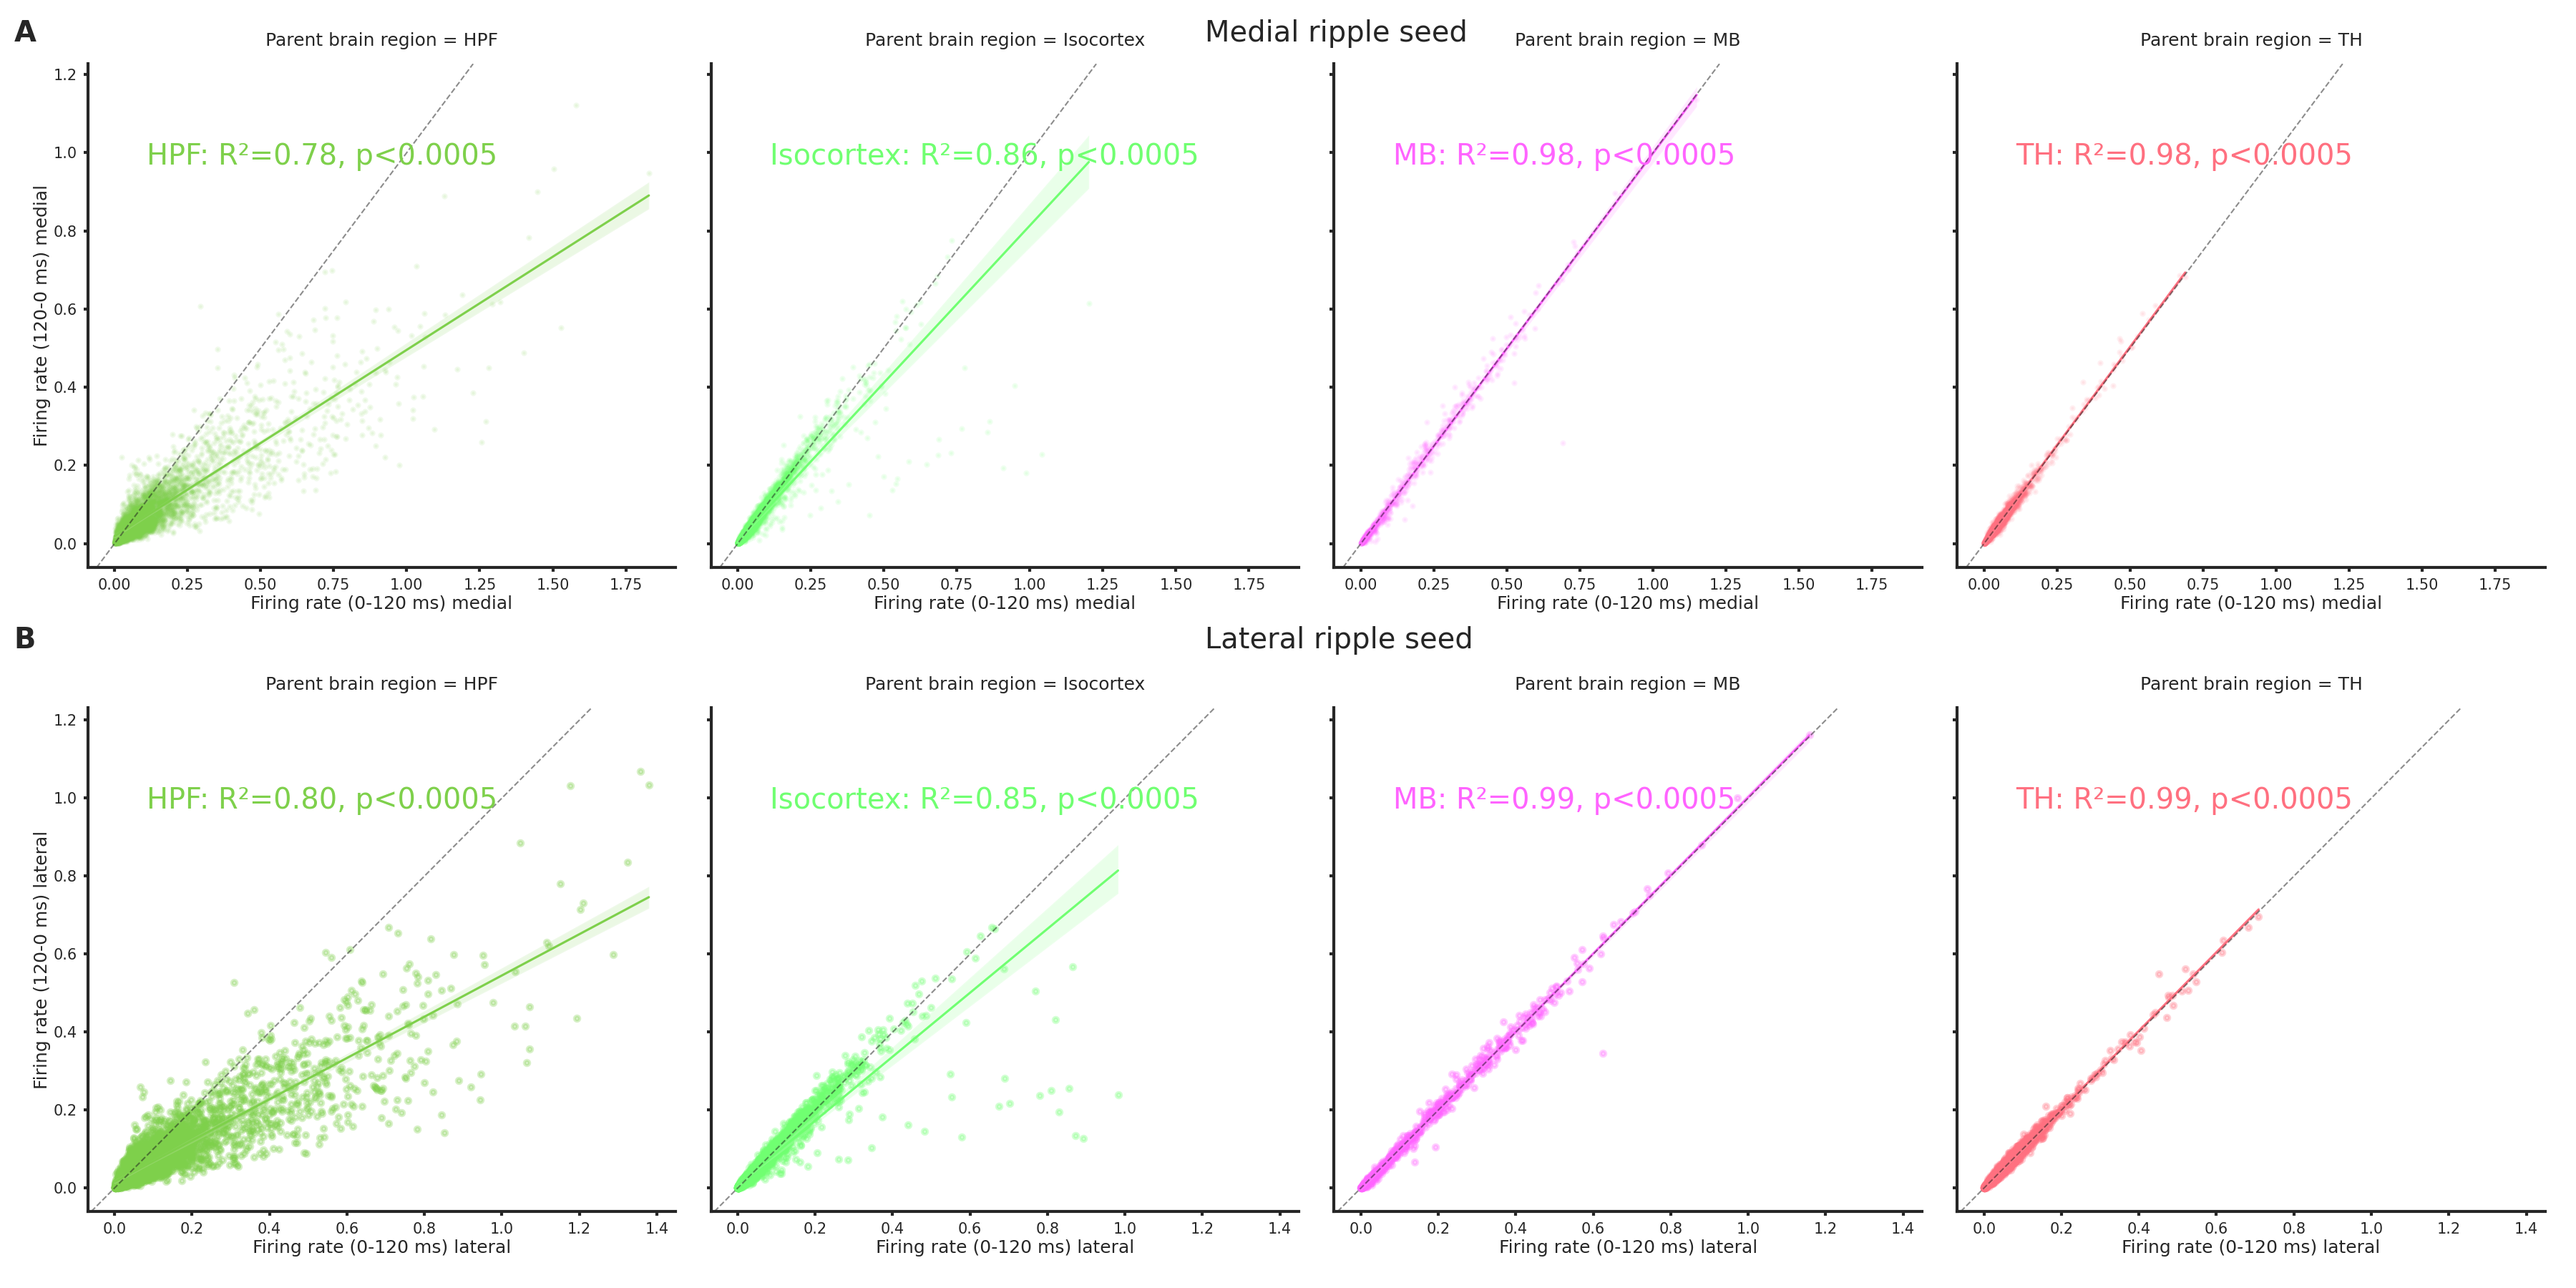
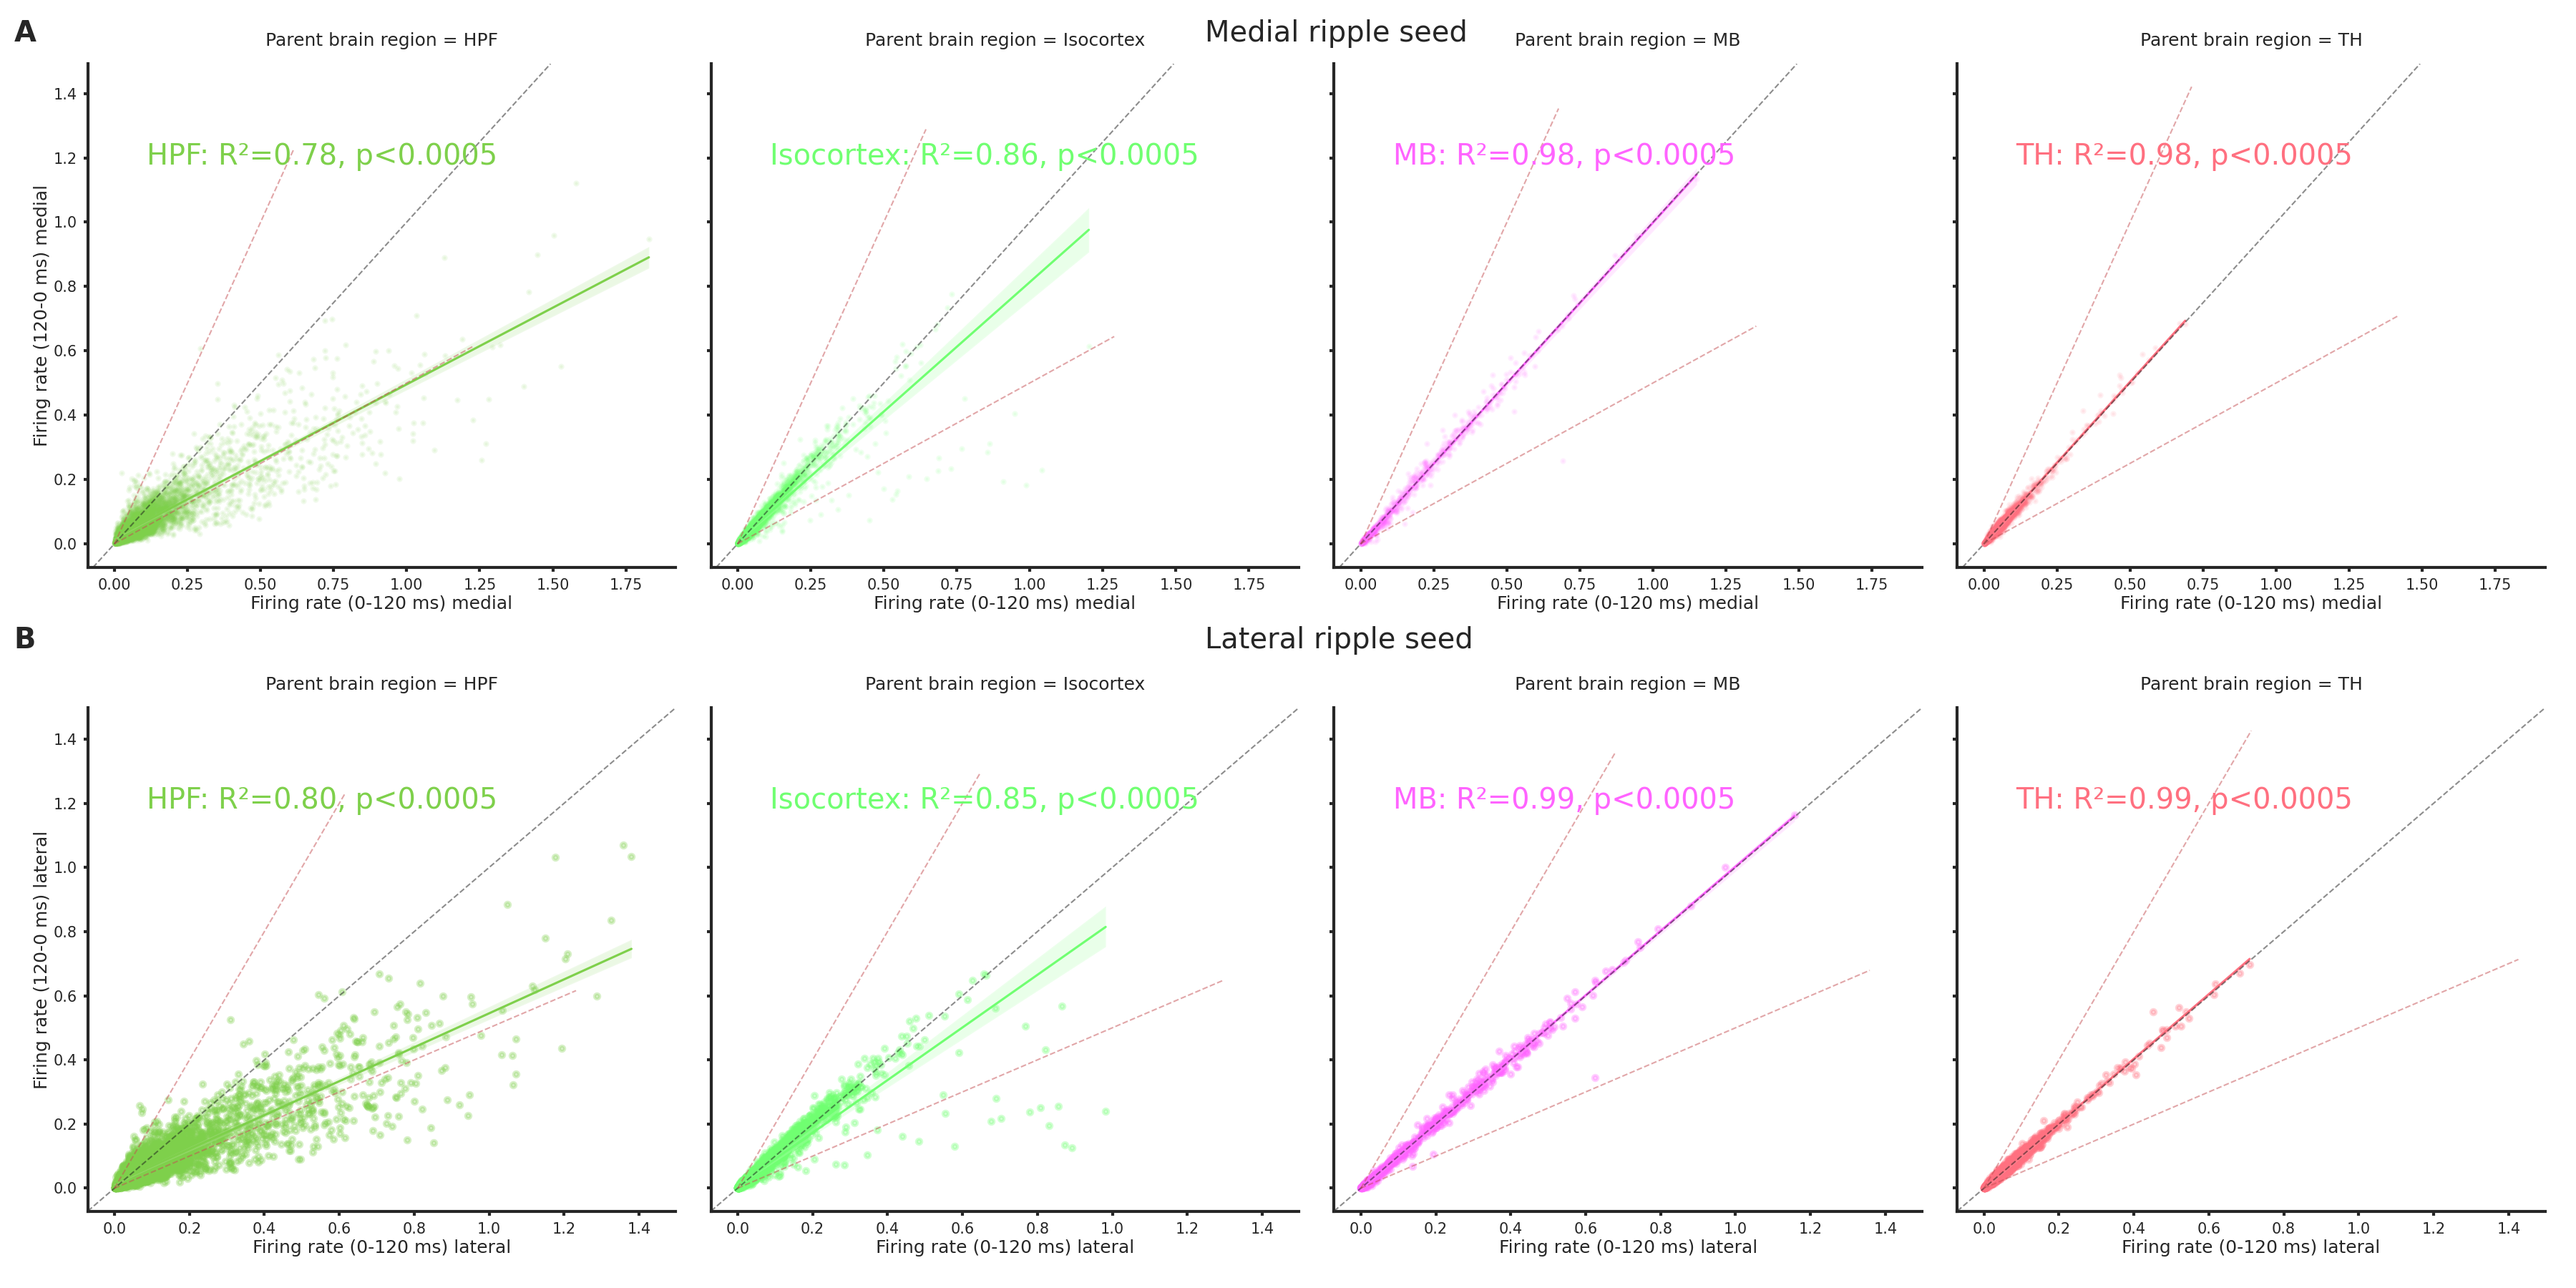
update

diff --git a/Figures/Supplementary/Supplementary_Figure_brainrender_cells_isocortex_mod_by_ripples.py b/Figures/Supplementary/Supplementary_Figure_brainrender_cells_isocortex_mod_by_ripples.py
@@ -3,9 +3,21 @@ from PIL import Image
 from brainrender import Scene, settings
 from brainrender.actors import Points
 import dill
-from Utils.Settings import output_folder_figures_calculations
+from Utils.Settings import output_folder_supplementary, output_folder_figures_calculations
+from Utils.Style import palette_ML
+from rich import print
+from Utils.Utils import rgb2hex
+from brainrender import Scene
+from brainrender.video import VideoMaker
+
 
 from rich import print
+
+
+
+# Create an instance of video maker
+
+
 
 
 settings.SHOW_AXES = False
@@ -15,29 +27,52 @@ with open(f"{output_folder_figures_calculations}/temp_data_figure_5.pkl", 'rb') 
 scene = Scene()
 
 data = summary_units_df_sub[(summary_units_df_sub["Parent brain region"]=="Isocortex") &
-                    (summary_units_df_sub['Ripple modulation (0-50 ms) lateral']>2)]
+                    (summary_units_df_sub['Ripple modulation (0-50 ms) lateral'] > .5) &
+                            (summary_units_df_sub['Ripple modulation (0-50 ms) medial'] < .5) ]
 
 ca1 = scene.add_brain_region("CA1", alpha=0.15, color="#754668")
 
 # Add to scene
-scene.add(Points(data[[ "A-P", "D-V", "L-R"]].values, name="CELLS", colors="r"))
+scene.add(Points(data[["A-P", "D-V", "L-R"]].values, name="CELLS", radius=50, alpha=.5, colors=rgb2hex(palette_ML["Lateral"])))
+
+data = summary_units_df_sub[(summary_units_df_sub["Parent brain region"]=="Isocortex") &
+                    (summary_units_df_sub['Ripple modulation (0-50 ms) medial']>.5) &
+                            (summary_units_df_sub['Ripple modulation (0-50 ms) lateral'] < .5)
+                            ]
 
 
+scene.add(Points(data[["A-P", "D-V", "L-R"]].values, name="CELLS", radius=50,  alpha=.5, colors=rgb2hex(palette_ML["Medial"])))
 
+data = summary_units_df_sub[(summary_units_df_sub["Parent brain region"]=="Isocortex") &
+                    (summary_units_df_sub['Ripple modulation (0-50 ms) medial']>.5) &
+                            (summary_units_df_sub['Ripple modulation (0-50 ms) lateral'] > .5)
+                            ]
+
+
+scene.add(Points(data[["A-P", "D-V", "L-R"]].values, name="CELLS", radius=50,  alpha=.5, colors="r"))
 #ca3 = scene.add_brain_region("CA3", alpha=0.15, color="#FF4365")
 
 
 # render
-cam0 = {
-     'pos': (-18912, -4980, -28900),
+cam0:{
+     'pos': (-7265, -940, -18793),
      'viewup': (0, -1, 0),
-     'clippingRange': (17189, 58828),
+     'clippingRange': (1407, 42647),
+     'focalPoint': (7830, 4296, -5694),
+     'distance': 20661,
    }
 
+vm = VideoMaker(scene, output_folder_supplementary, "Supplementary_Figure_brainrender_cells")
+
+# make a video with the custom make frame function
+# this just rotates the scene
+vm.make_video(azimuth=2, duration=10, fps=15)
+
+"""
 scene.render(zoom=1.0, camera=cam0)
-#scene.screenshot(name=f"{output_folder_figures_calculations}/Figure_5_brainrender_cells.png", scale=4)
-#im = Image.open(f'{output_folder_figures_calculations}/Figure_5_brainrender_cells.png')
-#width, height = im.size
-#im = im.crop((2000, 1200, width - 2400, height - 1200))
-#im.save(f'{output_folder_figures_calculations}/Figure_5_brainrender_cells.png')
-print("Brainrender saved")
+scene.screenshot(name=f"{output_folder_supplementary}/Supplementary_Figure_brainrender_cells.png", scale=4)
+im = Image.open(f'{output_folder_supplementary}/Supplementary_Figure_brainrender_cells.png')
+width, height = im.size
+im = im.crop((2000, 1200, width - 2400, height - 1200))
+im.save(f'{output_folder_supplementary}/Supplementary_Figure_brainrender_cells.png')
+print("Brainrender saved")"""

diff --git a/Figures/Figure_5/Figure_5_scatter_ripple_modulated.py b/Figures/Figure_5/Figure_5_scatter_ripple_modulated.py
@@ -9,18 +9,18 @@ import scipy as sp
 with open(f"{output_folder_figures_calculations}/temp_data_figure_5.pkl", 'rb') as f:
     summary_units_df_sub = dill.load(f)
 
-summary_units_df_sub["Firing rate (0-50 ms)"] = (summary_units_df_sub["Firing rate (0-50 ms) medial"]+summary_units_df_sub["Firing rate (0-50 ms) lateral"])/2
-summary_units_df_sub["Firing rate (120-0 ms)"] = (summary_units_df_sub["Firing rate (120-0 ms) medial"]+summary_units_df_sub["Firing rate (120-0 ms) lateral"])/2
+summary_units_df_sub['Firing rate (0-120 ms)'] = (summary_units_df_sub['Firing rate (0-120 ms) medial']+summary_units_df_sub['Firing rate (0-120 ms) lateral'])/2
+summary_units_df_sub['Firing rate (120-0 ms)'] = (summary_units_df_sub['Firing rate (120-0 ms) medial']+summary_units_df_sub['Firing rate (120-0 ms) lateral'])/2
+#summary_units_df_sub['Firing rate (0-50 ms)'] = (summary_units_df_sub['Firing rate (0-50 ms) medial']+summary_units_df_sub['Firing rate (0-120 ms) lateral'])/2
 
 palette_parent_areas = dict()
 for area in summary_units_df_sub["Parent brain region"].unique():
     palette_parent_areas[area] = '#' + ''.join(f'{i:02X}' for i in acronym_color_map[area]);
 
-
-g = sns.lmplot(data=summary_units_df_sub, x='Firing rate (0-50 ms)', y='Firing rate (120-0 ms)',
+g = sns.lmplot(data=summary_units_df_sub, x='Firing rate (0-120 ms)', y='Firing rate (120-0 ms)',
                hue='Parent brain region',
-               palette=palette_parent_areas, scatter_kws=dict(alpha=.3, s=.5),
-               hue_order=['HPF', 'Isocortex', 'MB', 'TH'], height=5, aspect=1, legend=False)
+               palette=palette_parent_areas, scatter_kws=dict(alpha=.2, s=.5),
+               hue_order=['HPF', 'Isocortex', 'MB', 'TH'], height=5, aspect=1)
 
 yg = {'HPF': .8, 'Isocortex': .85, 'MB': .9, 'TH': .95}
 
@@ -31,14 +31,24 @@ def annotate(data, **kws):
     # get the y-position from the dict
     y = yg[g]
 
-    r, p = sp.stats.pearsonr(data['Firing rate (0-50 ms)'], data['Firing rate (120-0 ms)'])
+    r, p = sp.stats.pearsonr(data['Firing rate (0-120 ms)'], data['Firing rate (120-0 ms)'])
     ax = plt.gca()
     if p == 0:
-        ax.text(.03, y, f'{g}: R²={r ** 2:.2f}, p<0.0005', fontsize=5,  transform=ax.transAxes, color=palette_parent_areas[g])
+        ax.text(.1, y, f"{g}: R²={r ** 2:.2f}, p<0.0005", fontsize=5, transform=ax.transAxes, color=palette_parent_areas[g])
     else:
-        ax.text(.03, y, f'{g}: R²={r ** 2:.2f}, p={2:.2e}', fontsize=5, transform=ax.transAxes, color=palette_parent_areas[g])
+        ax.text(.1, y, f"{g}: R²={r ** 2:.2f}, p={2:.2e}", fontsize=5, transform=ax.transAxes, color=palette_parent_areas[g])
 
 
 g.map_dataframe(annotate)
-g.map_dataframe(lambda data, **kws: plt.axline((0, 0), slope=1,  alpha=.5, linestyle='--', color='k'))
+g.map_dataframe(lambda data, **kws: plt.axline((0, 0), slope=1, alpha=.2, linestyle='--', color='k'))
+
+
+def plot_diag(data, **kws):
+    ax = plt.gca()
+    ax.plot([0, ax.get_ylim()[1]], [0, ax.get_ylim()[1] / 2], alpha=.5, linestyle='--', color='r')
+    ax.plot([0, ax.get_ylim()[1] / 2], [0, ax.get_ylim()[1]], alpha=.5, linestyle='--', color='r')
+
+
+g.map_dataframe(plot_diag)
+
 plt.show()

diff --git a/Calculations/Calculations_Figure_5.py b/Calculations/Calculations_Figure_5.py
@@ -62,7 +62,6 @@ summary_units_df_sub = summary_units_df_sub.rename(columns={"Ecephys structure a
 
 summary_units_df_sub["M-L"] = summary_units_df_sub["L-R"] - 5691.510009765625
 
-
 def conditions_type_engagement(s):
     if (s['Ripple modulation (0-50 ms) medial'] > .5) | (s['Ripple modulation (0-50 ms) lateral'] > .5):
         if ((s['Ripple modulation (0-50 ms) medial']) / (s['Ripple modulation (0-50 ms) lateral'] + 1e-9)) > 2:
@@ -81,9 +80,9 @@ def conditions_ripple_engagement(s):
     else:
         return 'No engagement'
 
-summary_units_df_sub['Ripple type engagement'] = summary_units_df_sub[(summary_units_df_sub['Firing rate (0-120 ms) medial']>0.025)\
+summary_units_df_sub['Ripple type engagement'] = summary_units_df_sub[(summary_units_df_sub['Firing rate (0-50 ms) medial']>0.025)\
                                                                      ].apply(conditions_type_engagement, axis=1)
-summary_units_df_sub['Ripple engagement'] = summary_units_df_sub[(summary_units_df_sub['Firing rate (0-120 ms) medial']>0.025)\
+summary_units_df_sub['Ripple engagement'] = summary_units_df_sub[(summary_units_df_sub['Firing rate (0-50 ms) medial']>0.025)\
                                                                  ].apply(conditions_ripple_engagement, axis=1)
 
 with open(f"{ output_folder_figures_calculations}/temp_data_figure_5.pkl", "wb") as fp:

diff --git a/Manuscript/results.py b/Manuscript/results.py
@@ -157,7 +157,12 @@ results = {"Distance explains most of the ripple strength correlation variabilit
             f"we did, however, found differences in firing rate, waveform duration, and waveform shape (recovery slope and peak-through ratio, Supplementary Figure 13)."
             f" Firing rate and waveform duration in putative excitatory neurons exhibited respectively "
             f"a left- and right-shifted distribution in the lateral section, reflecting lower firing rate and slower action potentials. "
-            f"Putative inhibitory interneurons in the lateral section showed both a slower action potential and a higher firing rate"}
+            f"Putative inhibitory interneurons in the lateral section showed both a slower action potential and a higher firing rate.",
+
+           "Ripple seed location is associated with different pattern of modulation across brain regions":
+           "To understand the effect of medial and lateral ripples on individual neurons in different brain regions we calculated a modulation index"
+           "subtracting the baseline spiking rate from the spiking rate during the ripple and dividing by the baseline"
+           }
 
 if Adapt_for_Nature_style is True:
     results = Naturize_text(results)

diff --git a/Figures/Figure_5/Figure_5_ripple_specific_modulation_scatterplot.py b/Figures/Figure_5/Figure_5_ripple_specific_modulation_scatterplot.py
@@ -16,7 +16,7 @@ palette_ML['No preference'] = (0.8,.8,.8)
 
 
 fig, axs = plt.subplots(1,  figsize=(5,5))
-sns.scatterplot(data=summary_units_df_sub[(summary_units_df_sub['Firing rate (0-120 ms) medial']>0.025)&
+sns.scatterplot(data=summary_units_df_sub[(summary_units_df_sub['Firing rate (0-50 ms) medial']>0.025)&
                                           (summary_units_df_sub['Parent brain region']=='HPF' )],
                x='Ripple modulation (0-50 ms) medial', y= 'Ripple modulation (0-50 ms) lateral', alpha=.5, ax=axs, s=5, hue='Ripple type engagement', palette=palette_ML)
 axs.plot([0, axs.get_ylim()[1]], [0, axs.get_ylim()[1]],  alpha=.5, linestyle='--', color='k')

diff --git a/Figures/Figure_5/Figure_5_ripple_specific_modulation_pie.py b/Figures/Figure_5/Figure_5_ripple_specific_modulation_pie.py
@@ -14,7 +14,7 @@ palette_ML['Lateral ripple engagement'] = (0.29408557, 0.13721193, 0.38442775)
 palette_ML['Medial ripple engagement'] = (0.92891402, 0.68494686, 0.50173994)
 palette_ML['No preference'] = (0.8,.8,.8)
 
-_ = pd.DataFrame(summary_units_df_sub[(summary_units_df_sub['Firing rate (0-120 ms) medial']>0.025)&
+_ = pd.DataFrame(summary_units_df_sub[(summary_units_df_sub['Firing rate (0-50 ms) medial']>0.025)&
                      (summary_units_df_sub['Parent brain region']=='HPF' )]['Ripple type engagement'].value_counts())
 
 

diff --git a/Figures/Figure_5/Figure_5_ripple modulation_per_HPF_area.py b/Figures/Figure_5/Figure_5_ripple modulation_per_HPF_area.py
@@ -18,7 +18,7 @@ order= ['CA1',  'CA3', 'DG', 'ProS', 'SUB']
 
 dv = 'Ripple modulation (0-50 ms)'
 ylabel = 'Early ripple modulation (0-50 ms)'
-filter_spiking = summary_units_df_sub['Firing rate (0-120 ms) medial']>0.025
+filter_spiking = summary_units_df_sub['Firing rate (0-50 ms) medial']>0.025
 point_plot_modulation_ripples(summary_units_df_sub, dv, parent_area, order,filter_spiking,axs[0], ylabel)
 axs[0].get_legend().remove()
 dv = 'Ripple modulation (50-120 ms)'

diff --git a/Figures/Supplementary/ex.py b/Figures/Supplementary/ex.py
@@ -1,0 +1,19 @@
+from brainrender import Scene
+from brainrender.video import VideoMaker
+
+
+from rich import print
+from myterial import orange
+from pathlib import Path
+
+# Create a scene
+scene = Scene("my video")
+scene.add_brain_region("TH")
+
+# Create an instance of video maker
+vm = VideoMaker(scene, "./examples", "vid1")
+
+# make a video with the custom make frame function
+# this just rotates the scene
+vm.make_video(azimuth=2, duration=5, fps=15)
+

diff --git a/Figures/Supplementary/Supplementary_Figure_units_per_hippocampal_section.py b/Figures/Supplementary/Supplementary_Figure_units_per_hippocampal_section.py
@@ -76,7 +76,8 @@ pd.DataFrame(np.vstack(exc_med), columns=time*1000).mean().plot( color=palette_M
 
 pd.DataFrame(np.vstack(inh_lat), columns=time*1000).mean().plot( color=palette_ML["Lateral"], ax=ax1)
 pd.DataFrame(np.vstack(inh_med), columns=time*1000).mean().plot( color=palette_ML["Medial"], ax=ax1)
-
+ax1.set_xlim((0.25,1.5))
+ax2.set_xlim((0.25,1.5))
 ax1.set_xlabel("Time (ms)")
 ax2.set_xlabel("Time (ms)")
 

diff --git a/Figures/Supplementary/Panel_scatterplot_ripple_mod_parent_areas_lateral.py b/Figures/Supplementary/Panel_scatterplot_ripple_mod_parent_areas_lateral.py
@@ -37,4 +37,12 @@ def annotate(data, **kws):
 
 g.map_dataframe(annotate)
 
+
+def plot_diag(data, **kws):
+    ax = plt.gca()
+    ax.plot([0, ax.get_ylim()[1]], [0, ax.get_ylim()[1] / 2], alpha=.5, linestyle='--', color='r')
+    ax.plot([0, ax.get_ylim()[1] / 2], [0, ax.get_ylim()[1]], alpha=.5, linestyle='--', color='r')
+
+
+g.map_dataframe(plot_diag)
 plt.show()

diff --git a/Figures/Supplementary/Panel_scatterplot_ripple_mod_parent_areas_medial.py b/Figures/Supplementary/Panel_scatterplot_ripple_mod_parent_areas_medial.py
@@ -37,4 +37,12 @@ def annotate(data, **kws):
 
 g.map_dataframe(annotate)
 
+
+def plot_diag(data, **kws):
+    ax = plt.gca()
+    ax.plot([0, ax.get_ylim()[1]], [0, ax.get_ylim()[1] / 2], alpha=.5, linestyle='--', color='r')
+    ax.plot([0, ax.get_ylim()[1] / 2], [0, ax.get_ylim()[1]], alpha=.5, linestyle='--', color='r')
+
+
+g.map_dataframe(plot_diag)
 plt.show()
